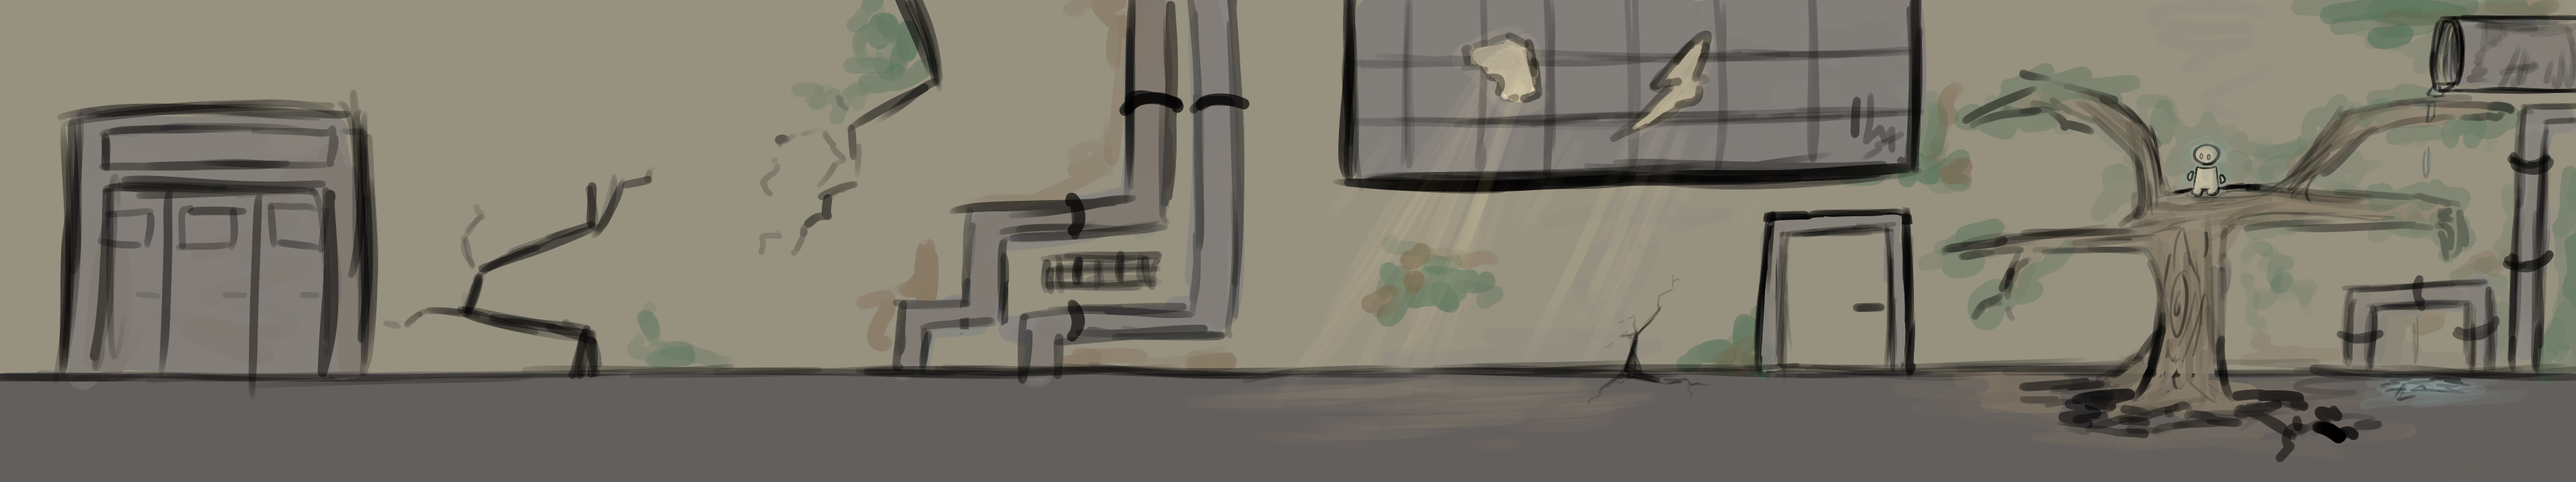
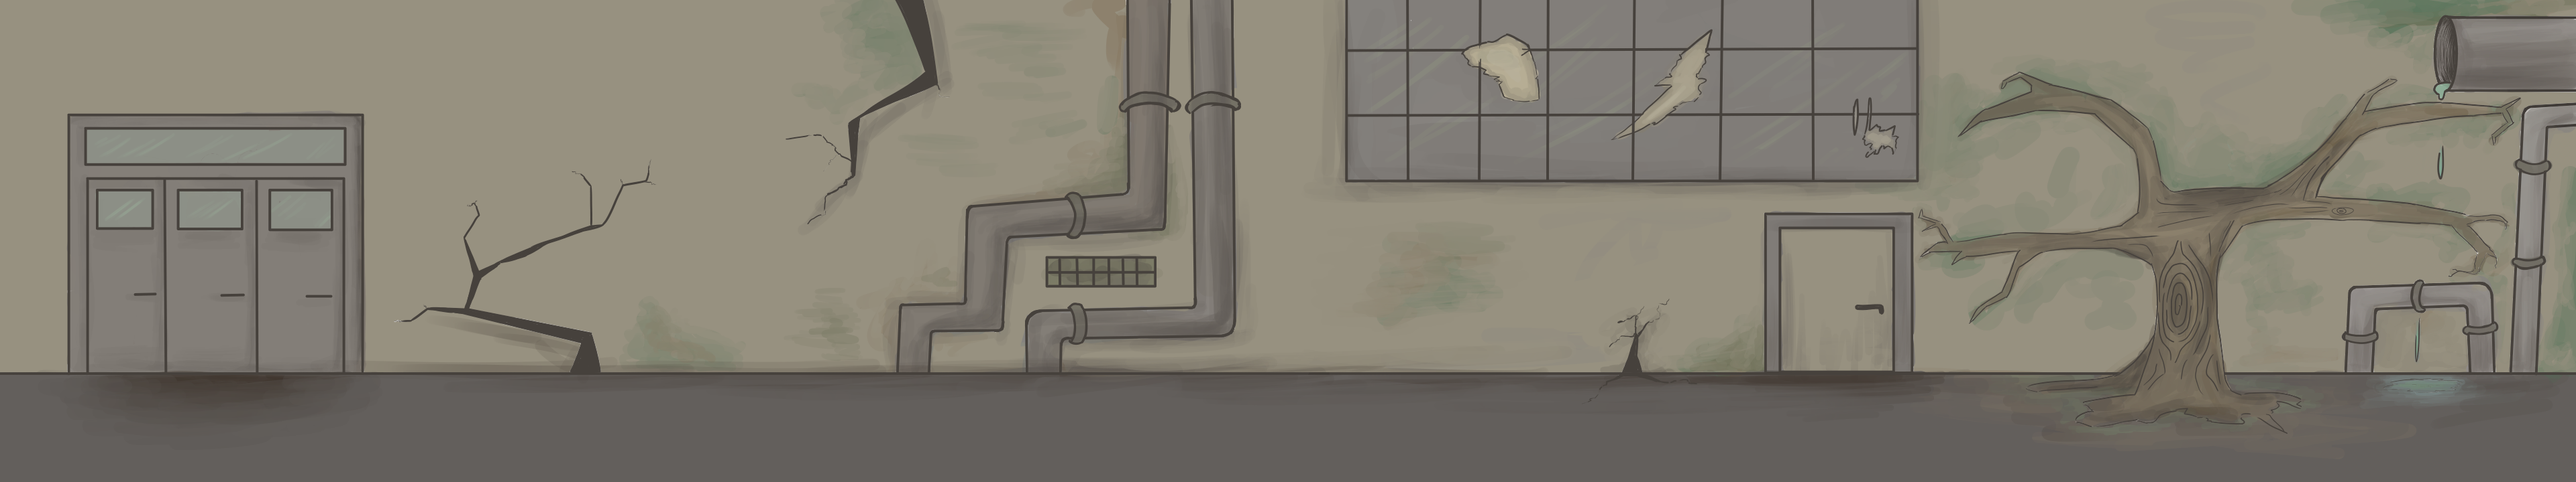
door added

diff --git a/src/js/levelone.js b/src/js/levelone.js
@@ -3,6 +3,7 @@ import { Resources } from './resources'
 import { Alchemist } from './alchemist.js'
 import { Letter } from './letter.js'
 import { InvisibleFloor } from './invisiblefloor.js'
+import { Door } from './door.js'
 
 export class LevelOne extends Scene {
     onInitialize(engine) {
@@ -14,6 +15,10 @@ export class LevelOne extends Scene {
         const invisfloor = new InvisibleFloor()
         invisfloor.pos = new Vector(1900, 700)
         this.add(invisfloor)
+
+        const door = new Door()
+        door.pos = new Vector(2720,437)
+        this.add(door)
     }
     onActivate(ctx) {
         const alchemist = new Alchemist()

diff --git a/src/js/door.js b/src/js/door.js
@@ -1,0 +1,21 @@
+import { Actor, Vector, CollisionType } from "excalibur";
+import { Resources } from './resources';
+
+export class Door extends Actor {
+  constructor() {
+    super({
+      width: Resources.L1Door.width,
+      height: Resources.L1Door.height,
+    });
+    this.body.collisionType = CollisionType.Passive;
+  }
+
+  onInitialize(engine) {
+    this.graphics.use(Resources.L1Door.toSprite());
+    this.pos = new Vector(2720,437)
+
+    //if (engine.input.keyboard.isHeld(Keys.E)) {
+      //this.goToScene('intro')
+    //}
+  }
+}

diff --git a/src/js/resources.js b/src/js/resources.js
@@ -8,6 +8,7 @@ const Resources = {
     LevelOneScreenOne: new ImageSource('images/levelone/sceneone.png'),
     Intro: new ImageSource('images/introscene.png'),
     Dialogue: new ImageSource('images/dialogue.png'),
+    L1Door: new ImageSource('images/levelone/door.png')
     // music
     // MainThemeMusic: new Sound("music/CLE_4_Main_Theme.mp3"),
     // LevelOneMusic: new Sound('music/CLE_4_Level_1.mp3'),
